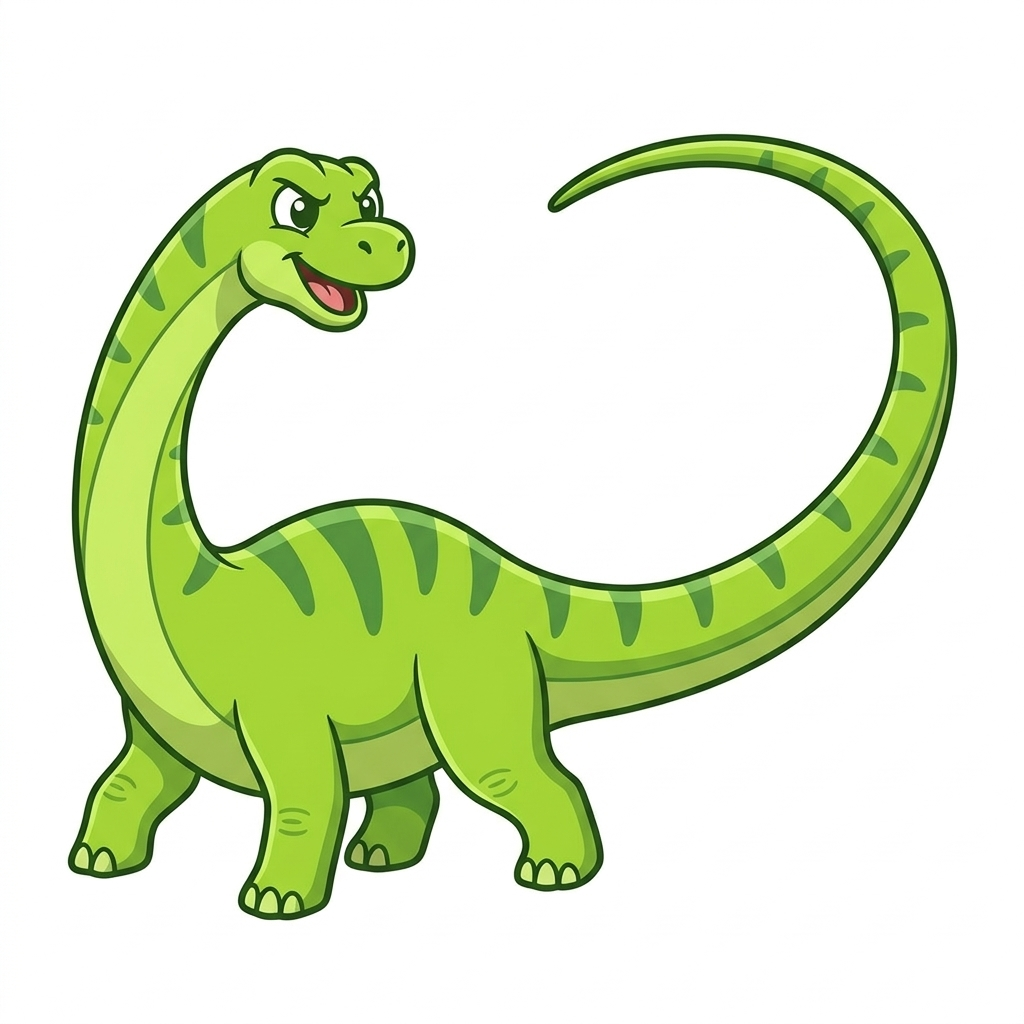
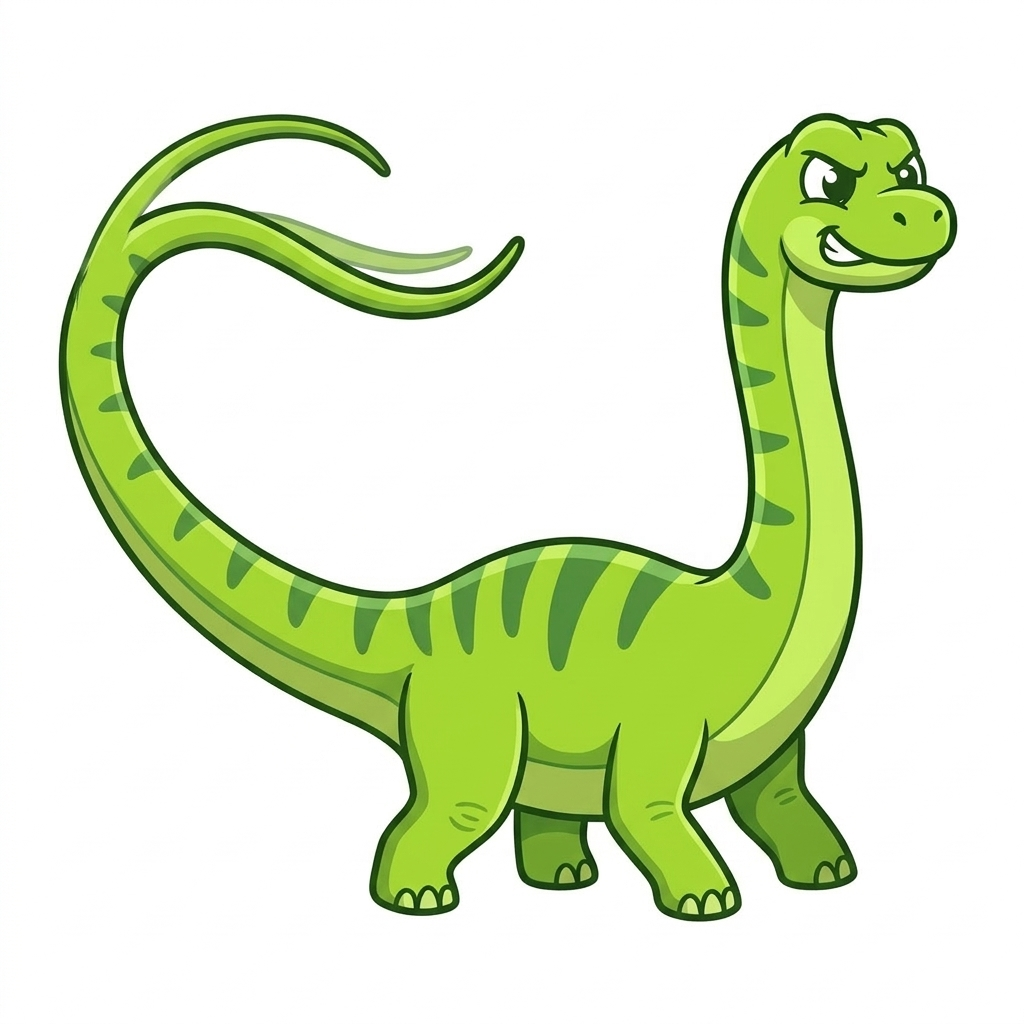
Use attack poses in battle lunges; mirror Amargasaurus; redo Diplodocus attack
- Lunges swap in NN_name_attack.webp (only once preloaded) and swap back after
- Animations resolve on a timer if the page's animation clock stalls, so battles never hang
- Amargasaurus game art mirrored to face right like the others
- Diplodocus attack redone facing right (first version kept as _v1)

diff --git a/game/index.html b/game/index.html
@@ -398,6 +398,10 @@ async function delImg(id){if(IMG[id])URL.revokeObjectURL(IMG[id]); delete IMG[id
 // Built-in art is cut out of its white background (tools/cutout.py makes dinos/<id>.webp)
 const src=id=>IMG[id]||(BUILTIN.has(id)?"dinos/"+id+".webp":null);
 const hasArt=id=>!!src(id);
+// Attack pose shown during a lunge (built-in art only; uploaded pictures keep their one pose)
+const atkSrc=id=>!IMG[id]&&BUILTIN.has(id)?"dinos/"+id+"_attack.webp":null;
+const ATK_OK=new Set(); // poses that have finished loading
+function preloadAtk(id){const a=atkSrc(id);if(!a||ATK_OK.has(id))return;const i=new Image();i.onload=()=>ATK_OK.add(id);i.src=a}
 
 function art(el,sp){
   el.innerHTML="";
@@ -419,8 +423,11 @@ const sfx={good:()=>tone([660,880]),bad:()=>tone([220,180],.18,"square"),win:()=
   whoosh:()=>noise(.28,500,2600,.25),hit:()=>{noise(.22,160,60,.7,.7);tone([110,60],.2,"sine",.03)},block:()=>tone([880,660],.1,"triangle",.05)};
 document.addEventListener("pointerdown",()=>{try{AC=AC||new (window.AudioContext||window.webkitAudioContext)();if(AC.state==="suspended")AC.resume()}catch(e){}},{once:true});
 const reduce=matchMedia("(prefers-reduced-motion: reduce)").matches;
-const anim=(el,k,o)=>{try{return el.animate(k,Object.assign({duration:400},o,reduce?{duration:Math.min(150,(o&&o.duration)||400)}:{})).finished}catch(e){return Promise.resolve()}};
 const wait=ms=>new Promise(r=>setTimeout(r,ms));
+// Resolves when the animation ends, or on a timer if the page's animation clock is paused (e.g. hidden tab), so a battle never gets stuck.
+const anim=(el,k,o)=>{try{const opt=Object.assign({duration:400},o,reduce?{duration:Math.min(150,(o&&o.duration)||400)}:{});
+  const a=el.animate(k,opt),total=(opt.delay||0)+opt.duration*(opt.iterations||1);
+  return Promise.race([a.finished,wait(total+250)]).catch(()=>{})}catch(e){return Promise.resolve()}};
 
 /* ---------- Screens ---------- */
 function show(id){document.querySelectorAll(".screen").forEach(s=>s.hidden=s.id!==id); window.scrollTo(0,0);}
@@ -590,17 +597,19 @@ function impact(box,col,dmg){
   shake();
 }
 
-async function lunge(box,dir,dist){ // dir 1 = to the right
+async function lunge(box,dir,dist,id){ // dir 1 = to the right
   const t=fig(box),back=`${-24*dir}px 6px`,hit=`${dist*dir}px -10px`;
+  const pose=t.tagName==="IMG"&&ATK_OK.has(id)&&atkSrc(id), still=t.src;
+  if(pose)t.src=pose;
   await anim(t,[{translate:"0 0",rotate:"0deg"},{translate:back,rotate:`${-6*dir}deg`}],{duration:210,easing:"ease-out",fill:"forwards"});
   sfx.whoosh();
   await anim(t,[{translate:back,rotate:`${-6*dir}deg`},{translate:hit,rotate:`${8*dir}deg`}],{duration:160,easing:"cubic-bezier(.5,0,1,.5)",fill:"forwards"});
-  return ()=>anim(t,[{translate:hit,rotate:`${8*dir}deg`},{translate:"0 0",rotate:"0deg"}],{duration:420,easing:"cubic-bezier(.3,1.4,.5,1)",fill:"forwards"}).then(()=>settle(t));
+  return ()=>anim(t,[{translate:hit,rotate:`${8*dir}deg`},{translate:"0 0",rotate:"0deg"}],{duration:420,easing:"cubic-bezier(.3,1.4,.5,1)",fill:"forwards"}).then(()=>{settle(t);if(pose)t.src=still});
 }
 async function attack(move){
   const col=TCOL[BY[E.me].type];
   callout(move,$("b-me"),col);
-  const back=await lunge($("b-me"),1,gap()*.55);
+  const back=await lunge($("b-me"),1,gap()*.55,E.me);
   const dmg=E.dmg[E.turn]||1; E.turn++;
   E.hp=E.turn>=E.dmg.length?0:Math.max(1,E.hp-dmg);
   impact($("b-wild"),col,dmg); sfx.hit(); hpBar();
@@ -609,7 +618,7 @@ async function attack(move){
 async function counter(){
   const col=TCOL[E.wild.type];
   callout(pick(MOVES[E.wild.type]),$("b-wild"),col);
-  const back=await lunge($("b-wild"),-1,gap()*.5);
+  const back=await lunge($("b-wild"),-1,gap()*.5,E.wild.id);
   const c=center($("b-me")); sfx.block();
   pop(fx("shield",c.x,c.y),[{transform:"scale(.5)",opacity:0},{transform:"scale(1.05)",opacity:1,offset:.3},{transform:"scale(1.25)",opacity:0}],{duration:650,easing:"ease-out"});
   callout("Blocked!",$("b-me"),"#2F7FD1",-.1);
@@ -639,6 +648,7 @@ function startBattle(meId,intro){
   for(let i=0;i<n;i++){const a=rand(n),b=rand(n);if(E.dmg[a]>2){E.dmg[a]--;E.dmg[b]++}}
   shuffle(E.dmg);
   art($("b-me"),me); art($("b-wild"),w);
+  preloadAtk(me.id); preloadAtk(w.id); // so the pose swap doesn't flicker
   $("b-me-name").textContent=me.name; $("b-me-lv").textContent=`Your dino · Level ${lvl(o)}`;
   $("b-wild-name").textContent=w.name; $("b-title").textContent=`Battle the wild ${w.name}!`;
   hpBar(); show("s-battle"); newQ();

diff --git a/CLAUDE.md b/CLAUDE.md
@@ -5,6 +5,8 @@ Learning game for my son: Pokémon-Go-style dinosaur catching. Maths battles wea
 ## Files
 - game/index.html: the whole game (one HTML file, no build step). Open it in a browser to run it.
 - game/dinos/NN_name.jpg: game art (512px). Ids match the SPECIES list in index.html.
+- game/dinos/NN_name_attack.webp: attack pose for each dino (swapped in during the battle lunge). Full-size originals are assets/dinos/NN_name_attack.jpeg.
+- 16_amargasaurus: its Gemini art faced left, so the game copies (normal + attack) are mirrored to face right like the others. Mirror again if you regenerate them from assets/.
 - game/dinos/NN_name.webp: the same art cut out of its white background. This is what the game loads. Make it with `python3 tools/cutout.py` (needs Pillow + numpy).
 - assets/dinos/NN_name.jpeg: full-size originals from Gemini. assets/style-reference/style-sheet.jpeg: the style all dinos copy.
 - assets/dino_prompts.md: the 40 dinos with types and image prompts. Dinos 01–19 have art; 20–40 still to generate.
